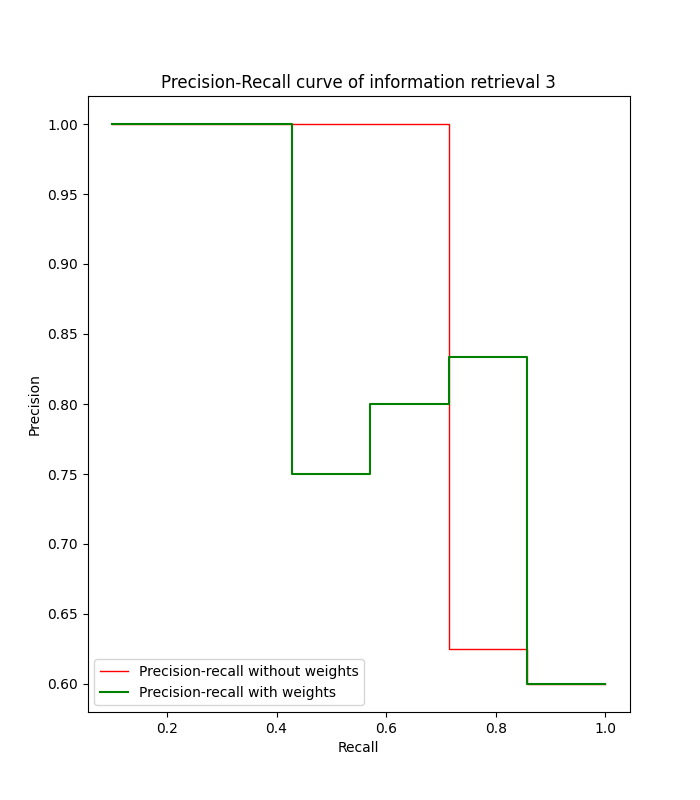
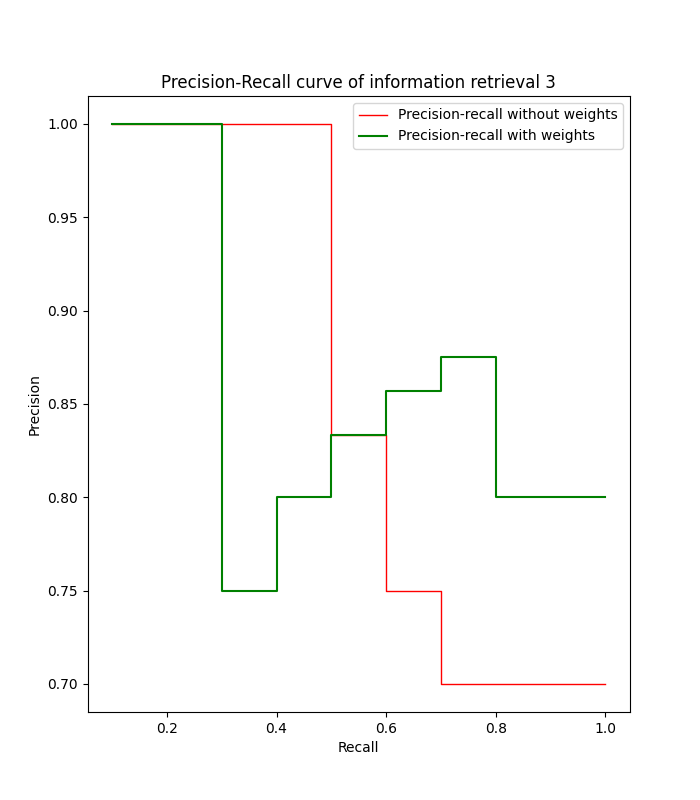
Add query 3 metrics and notes

diff --git a/solr/solrMetrics/q3/results_normal.tex b/solr/solrMetrics/q3/results_normal.tex
@@ -3,8 +3,8 @@
 {} &                       0 &         1 \\
 \midrule
 0 &                  Metric &     Value \\
-1 &       Average Precision &  0.944444 \\
-2 &  Precision at 10 (P@10) &       0.6 \\
-3 &     Recall at 10 (R@10) &  0.857143 \\
+1 &       Average Precision &  0.947846 \\
+2 &  Precision at 10 (P@10) &       0.7 \\
+3 &     Recall at 10 (R@10) &       0.7 \\
 \bottomrule
 \end{tabular}

diff --git a/solr/solrMetrics/q3/results_weight.tex b/solr/solrMetrics/q3/results_weight.tex
@@ -3,8 +3,8 @@
 {} &                       0 &         1 \\
 \midrule
 0 &                  Metric &     Value \\
-1 &       Average Precision &  0.915079 \\
-2 &  Precision at 10 (P@10) &       0.6 \\
-3 &     Recall at 10 (R@10) &  0.857143 \\
+1 &       Average Precision &  0.906796 \\
+2 &  Precision at 10 (P@10) &       0.8 \\
+3 &     Recall at 10 (R@10) &       0.8 \\
 \bottomrule
 \end{tabular}

diff --git a/solr/solrMetrics/q3/evalQ3.py b/solr/solrMetrics/q3/evalQ3.py
@@ -7,7 +7,6 @@ import pandas as pd
 import requests
 from sklearn.metrics import PrecisionRecallDisplay
 
-
 ### First step: read the qrels file and fetch query results from Solr's REST API 
 QRELS_FILE = "results.txt"
 # get here the url with edisMax

diff --git a/solr/solrMetrics/q3/notes.md b/solr/solrMetrics/q3/notes.md
@@ -1,0 +1,10 @@
+On this query, we are searching for companies in the area of health manufacturing.
+
+This is a complicated task for the search system because there are companies only of the 
+Healthcare or Manufacturing Industry. Despite that, the system revelled to work well
+on our dataset since the companies have a nice description, getting good relations 
+between the words.
+
+By using boosts, we get results more focused on the industry and the description, despite of the name,
+which is our objective here. With that, we got improvements on the search, incrementing the recall
+and precision at 10 from 0.7 to 0.8.
